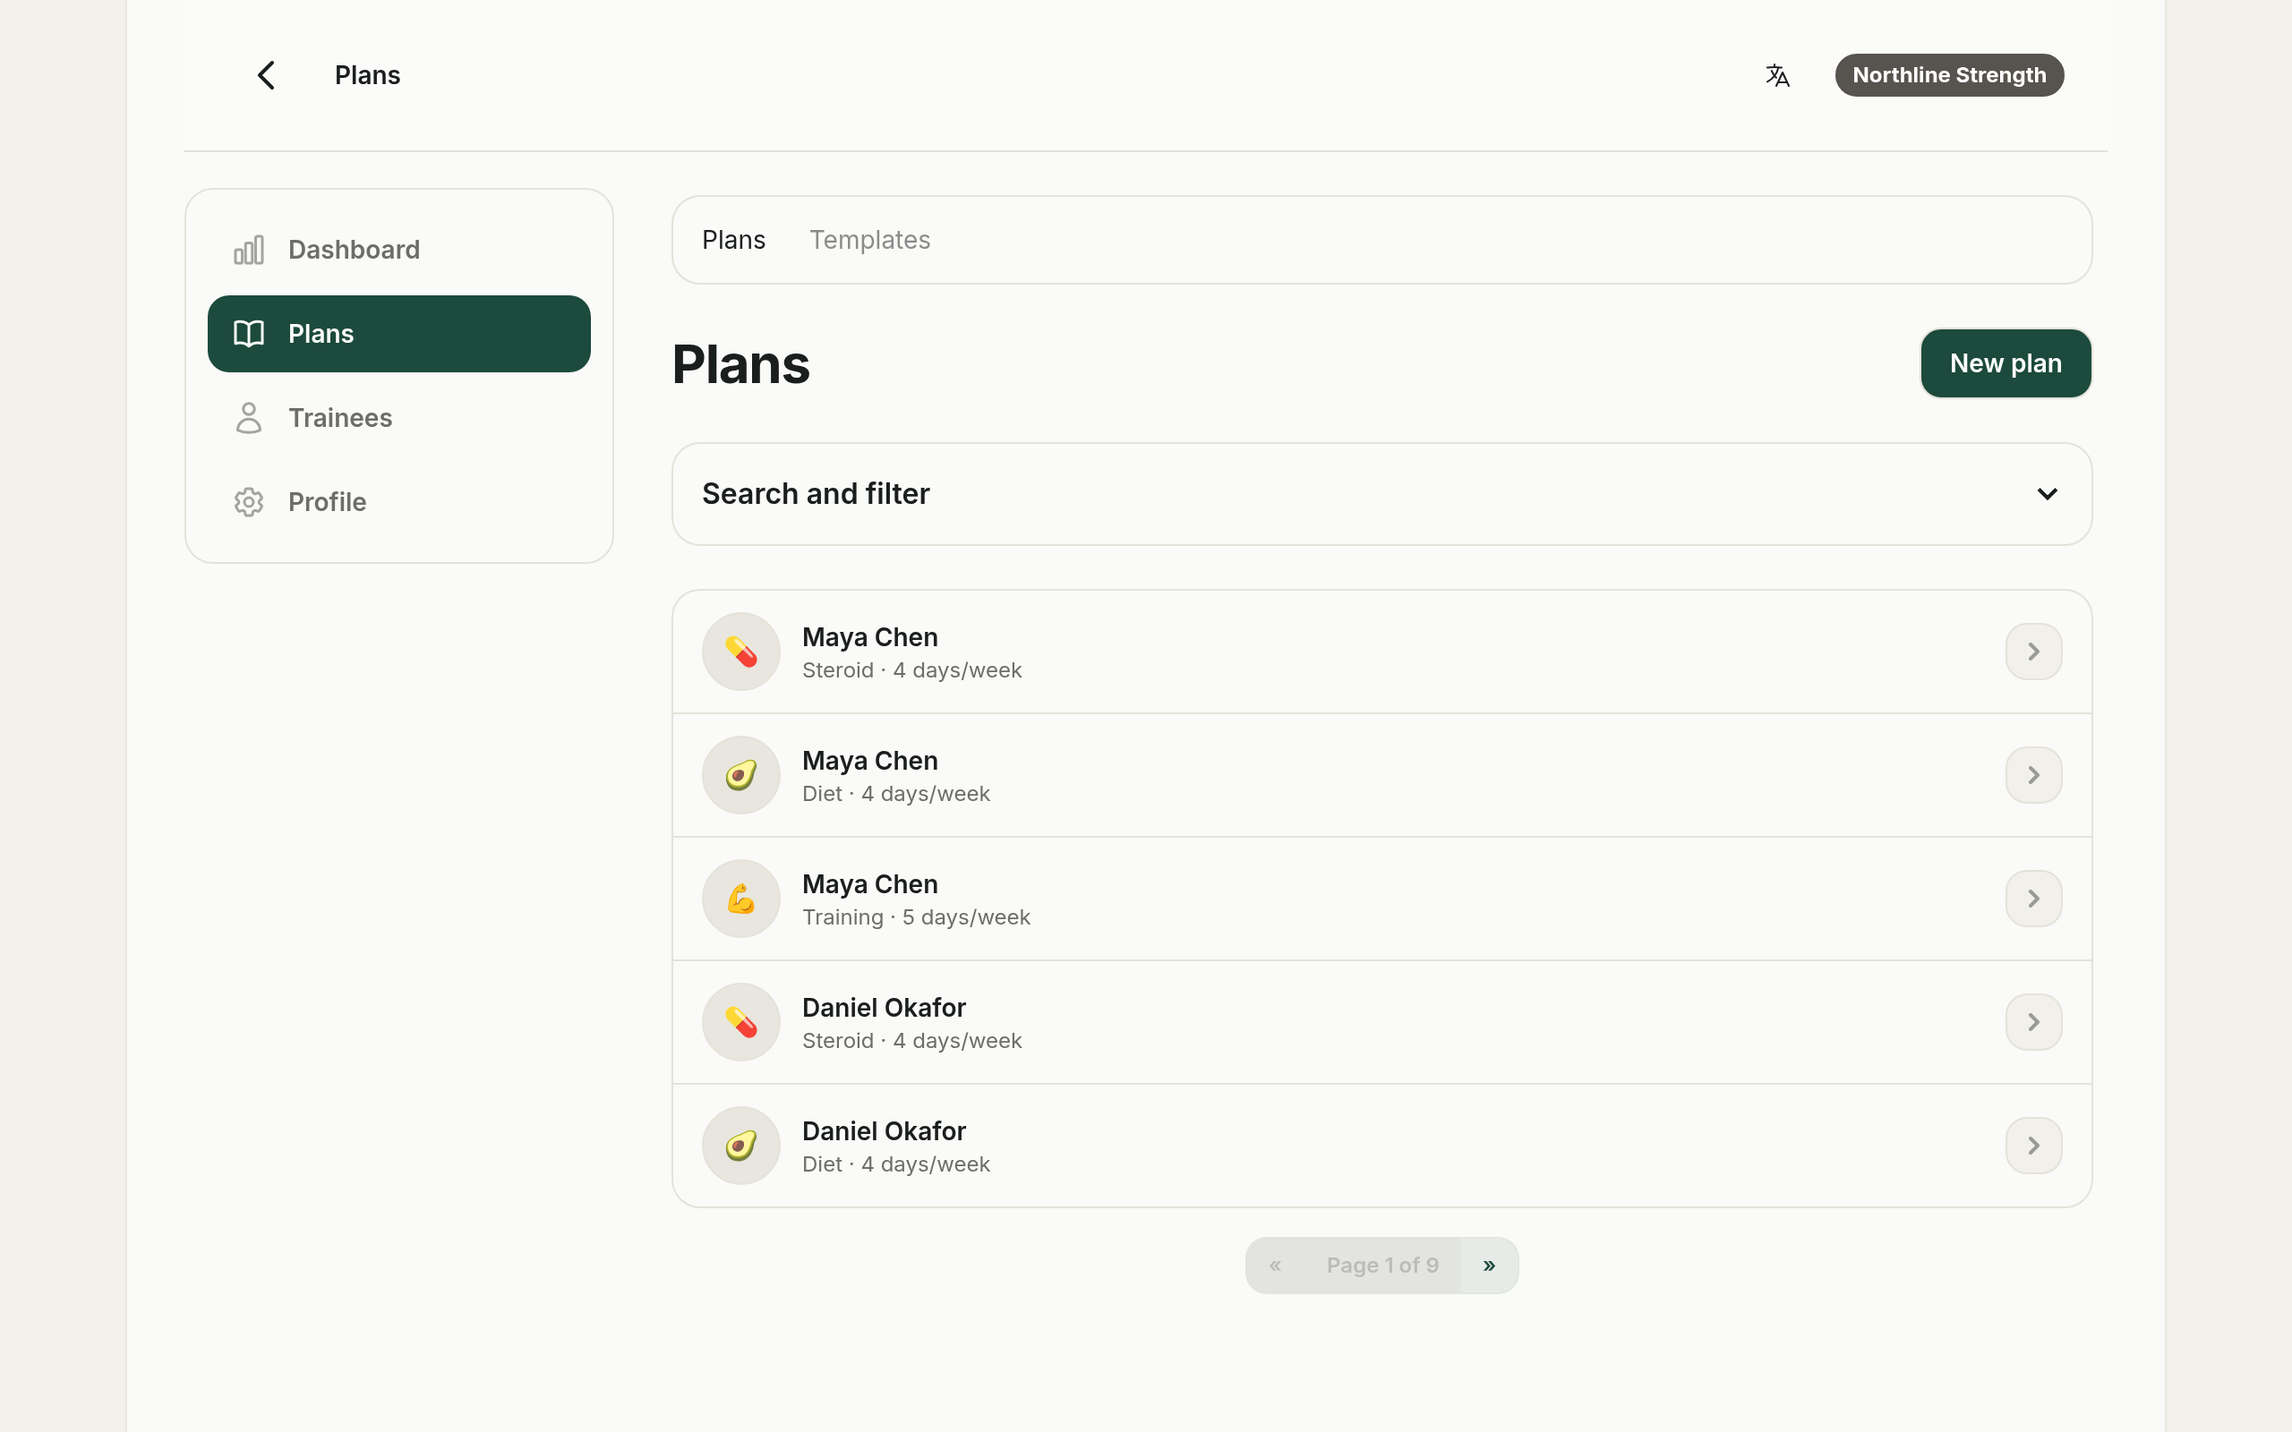
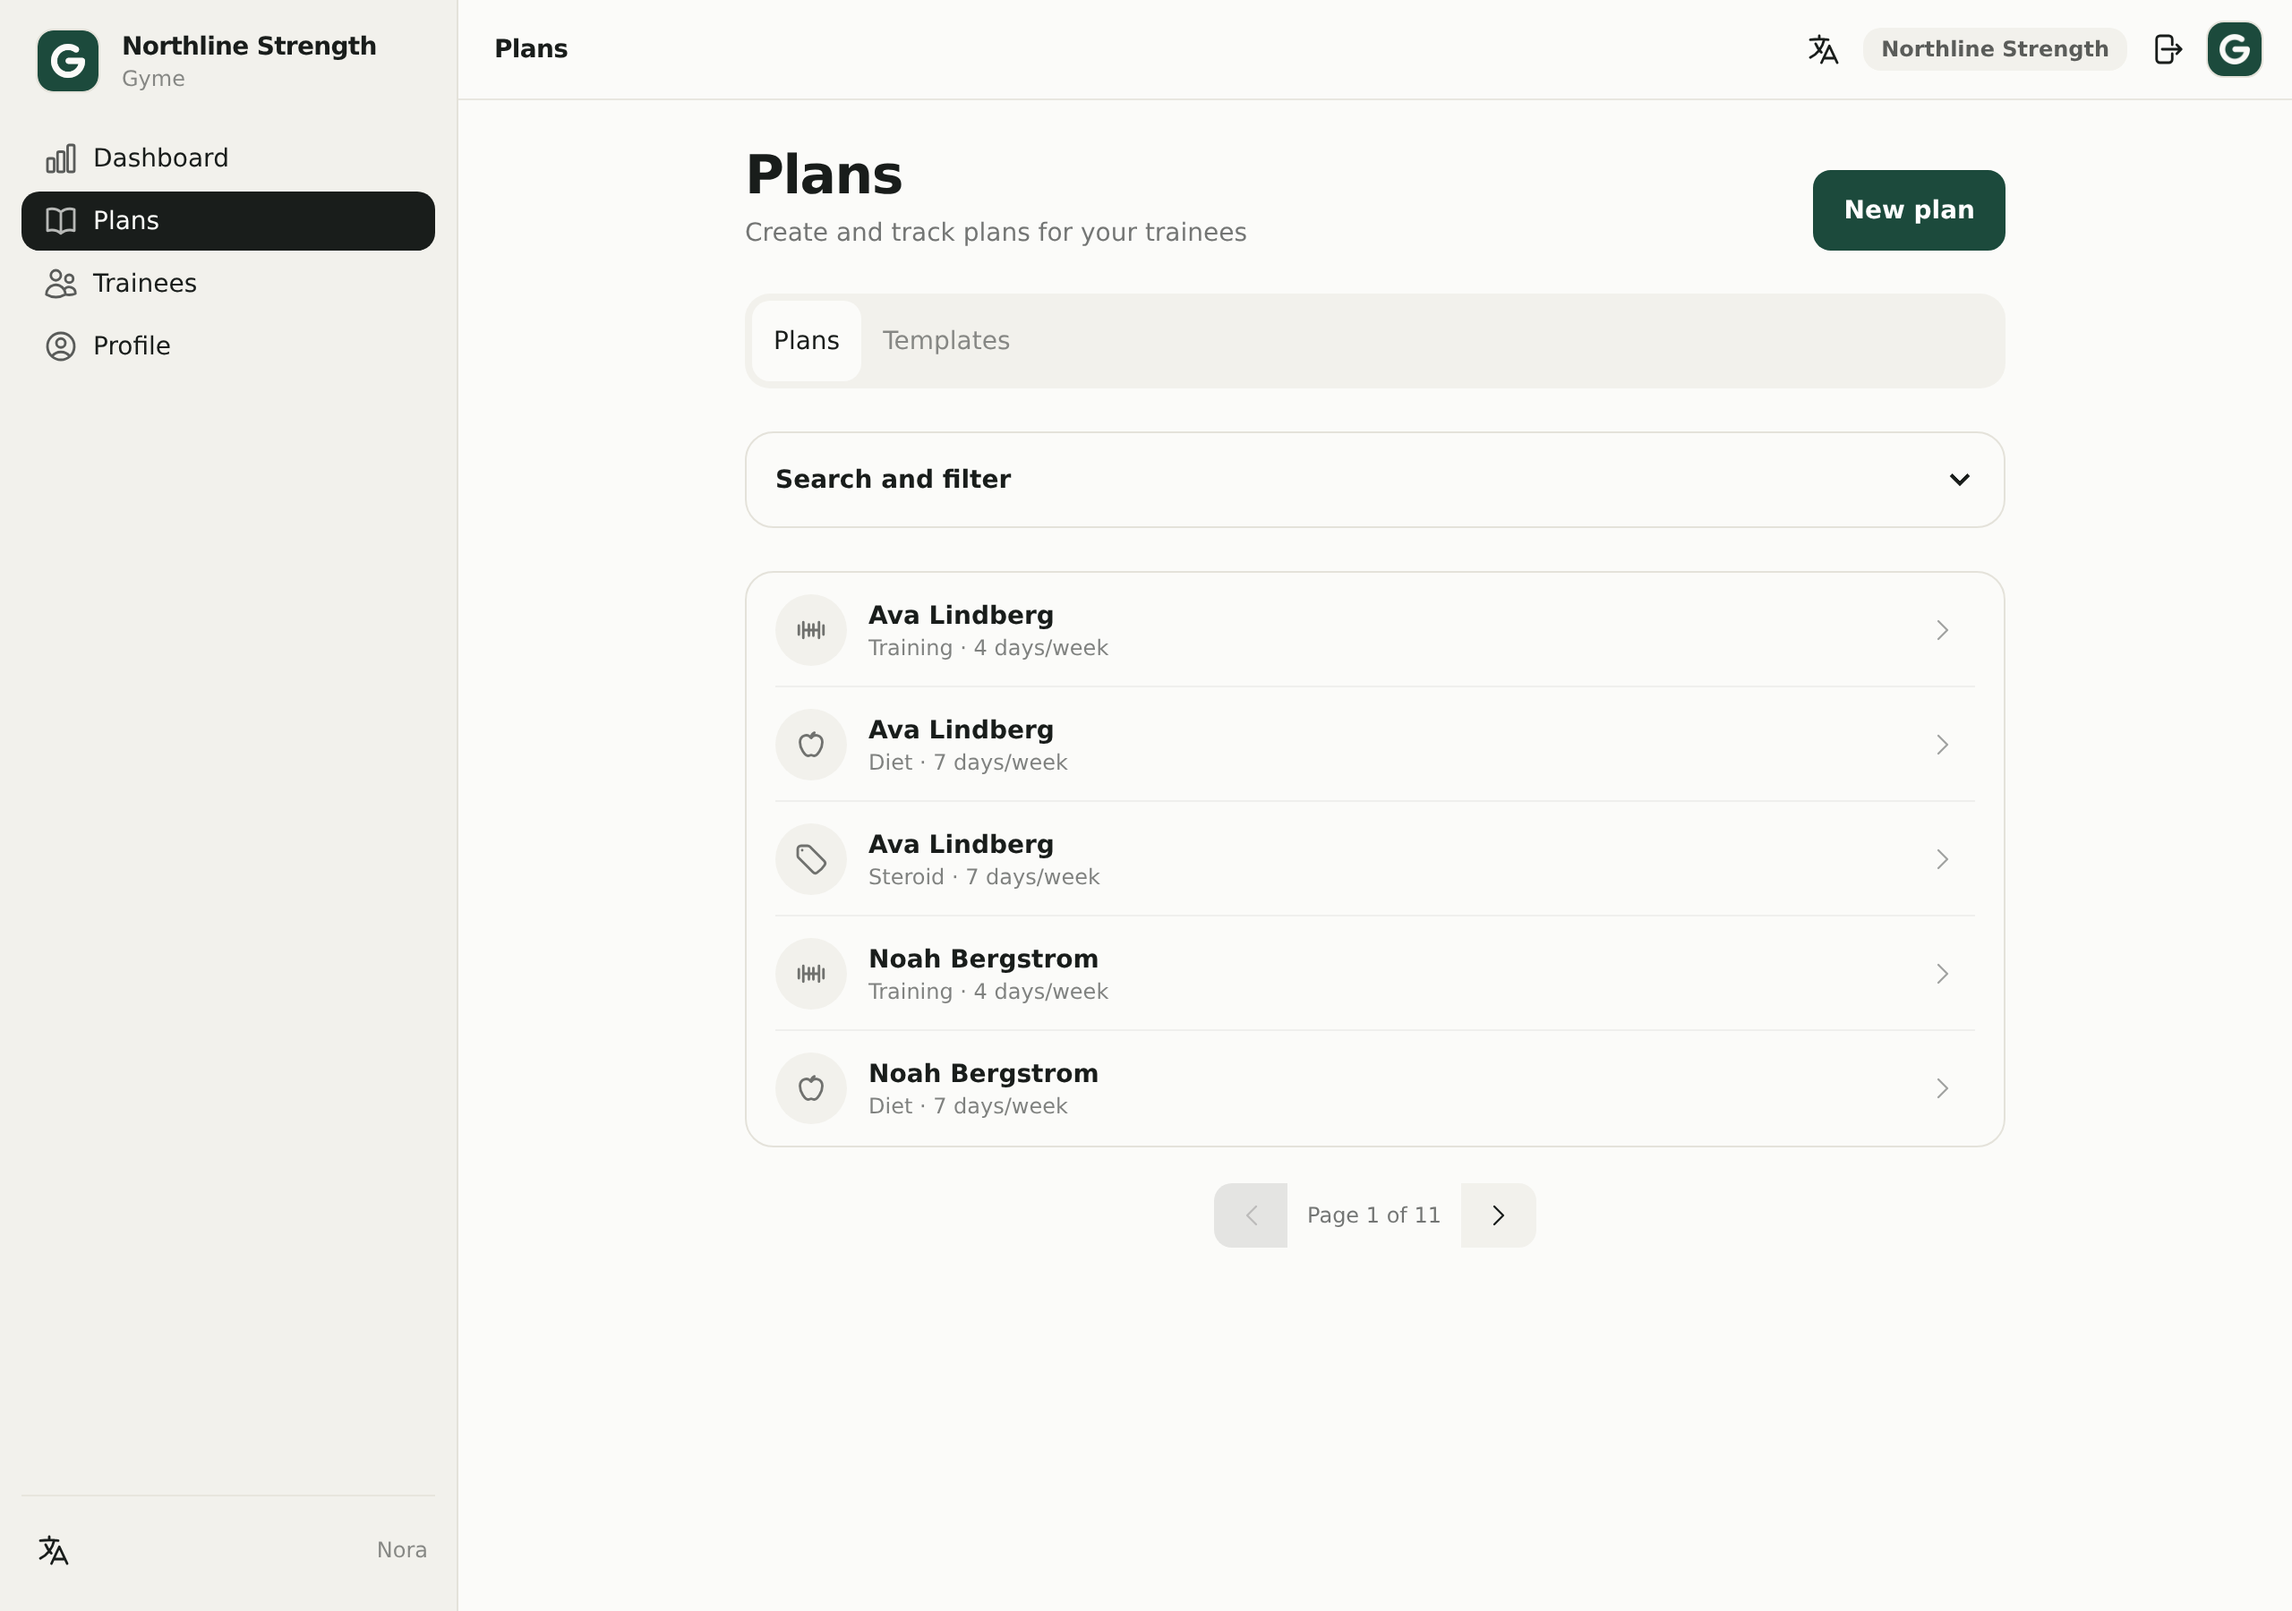
docs: recapture screenshots for the Slate Pine interface
Rebuild the nine README images from a fresh seeded PocketBase running the current build, describe the shell the screenshots actually show, and keep the plan-detail weight unit from running into its value.

diff --git a/app/templates/pages/owner/plan/plan_detail.html b/app/templates/pages/owner/plan/plan_detail.html
@@ -128,7 +128,7 @@
                                 <span class="badge badge-soft badge-sm">{{ _('Day') }} {{ item.seq }}</span>
                                 <h3 class="mt-2 text-sm font-semibold">{{ item.name }}</h3>
                                 <p class="mt-1 text-sm text-base-content/60 tabular-nums">
-                                    {{ _('Sets:') }} {{ item.sets }} · {{ _('Reps:') }} {{ item.reps }} · {{ _('Weight:') }} {{ item.weight }}{{ _('kg') }}
+                                    {{ _('Sets:') }} {{ item.sets }} · {{ _('Reps:') }} {{ item.reps }} · {{ _('Weight:') }} {{ item.weight }} {{ _('kg') }}
                                 </p>
                             {% else %}
                                 <p class="text-sm text-base-content/60">{{ item.name }}</p>

diff --git a/distribution/DISTRIBUTION-REPORT.md b/distribution/DISTRIBUTION-REPORT.md
@@ -283,3 +283,28 @@
 
 - The previous catalogues were empty stubs, so "translated" locales silently rendered English; the completeness test now makes that a CI failure. Three strings Babel had marked fuzzy (`KG`, `Share`, `Add to Home Screen`) were dropped at compile time and are now shipped.
 - Flags stay out of the language menu: emoji flags render as letter pairs or tofu on Windows, and the native names already identify each language.
+
+---
+
+## Cycle 2026-11-02 — screenshots for the Slate Pine interface
+
+**Version:** 0.12.0 · **Mode:** AUTONOMOUS · **Budget:** $0
+
+### Executed
+
+| Action | Evidence | Status |
+| --- | --- | --- |
+| Recaptured all nine README screenshots on the current build | `docs/screenshots/` (1280×900 desktop @2×, 390×844 phone @3×) | **PUSHED** |
+| README screenshot copy now describes the shell it shows (one theme, sidebar, dock) | `README.md` | **PUSHED** |
+| Fixed missing space in the plan-detail weight line | `app/templates/pages/owner/plan/plan_detail.html` | **PUSHED** |
+
+### Verification
+
+- Demo instance rebuilt from an empty PocketBase: `tenants`, `users`, `trainees`, `plans`, `training_items`, `diet_items`, `steroid_items`, `progress_logs`, `plan_progress`; 1 owner, 3 coaches, 24 trainees, 57 plans, 5 assessments for the featured trainee.
+- Every capture comes from the running app — no mocked HTML. Screens taken after login as owner and as a trainee so the real role-scoped navigation is visible.
+- 89 tests pass; `ruff check .` and `black --check .` clean.
+
+### Notes
+
+- The seed data was tightened for the shots: training items carry a `category` so the trainee sees `Main` instead of `Other`, and weights are stored numerically so the `kg` suffix is not duplicated.
+- The screenshots now show the shared icon set and page chrome (title, sub, action, section labels) that `17094f9` introduced, so the README no longer advertises the previous chrome.

diff --git a/README.md b/README.md
@@ -87,8 +87,10 @@ server work.
 
 ## Screenshots
 
-Demo data is fictional: a seeded “Northline Strength” gym, its coaches, and 24 trainees,
-all running the same build shown here. The full walkthrough is on the
+Demo data is fictional: a seeded “Northline Strength” gym with three coaches and 24
+trainees, all running the build in this repository. One DaisyUI theme carries the
+interface — pine only where action lives, hairlines where structure lives, a
+persistent sidebar on desktop and a dock on the phone. The full walkthrough is on the
 [product tour](https://gyme.cloud/en/).
 
 **Coach workspace** — live counters, a searchable roster, and every plan in one ledger.
